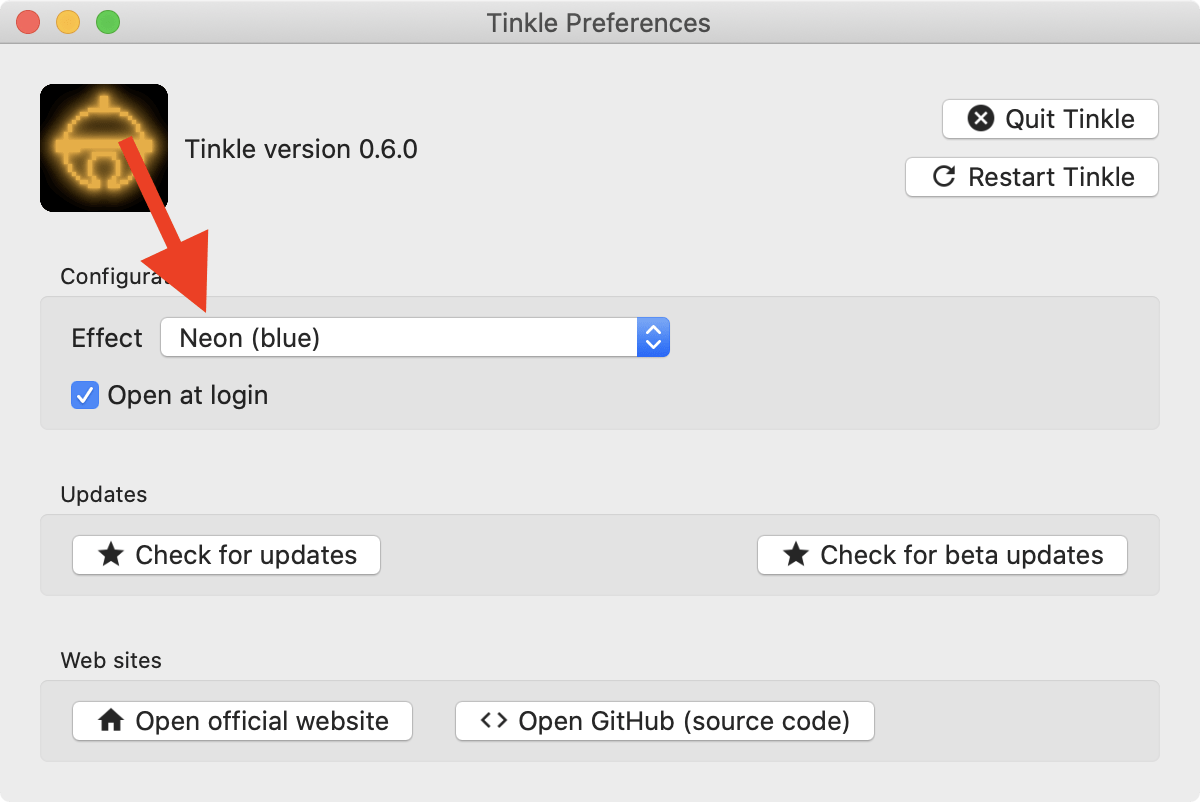
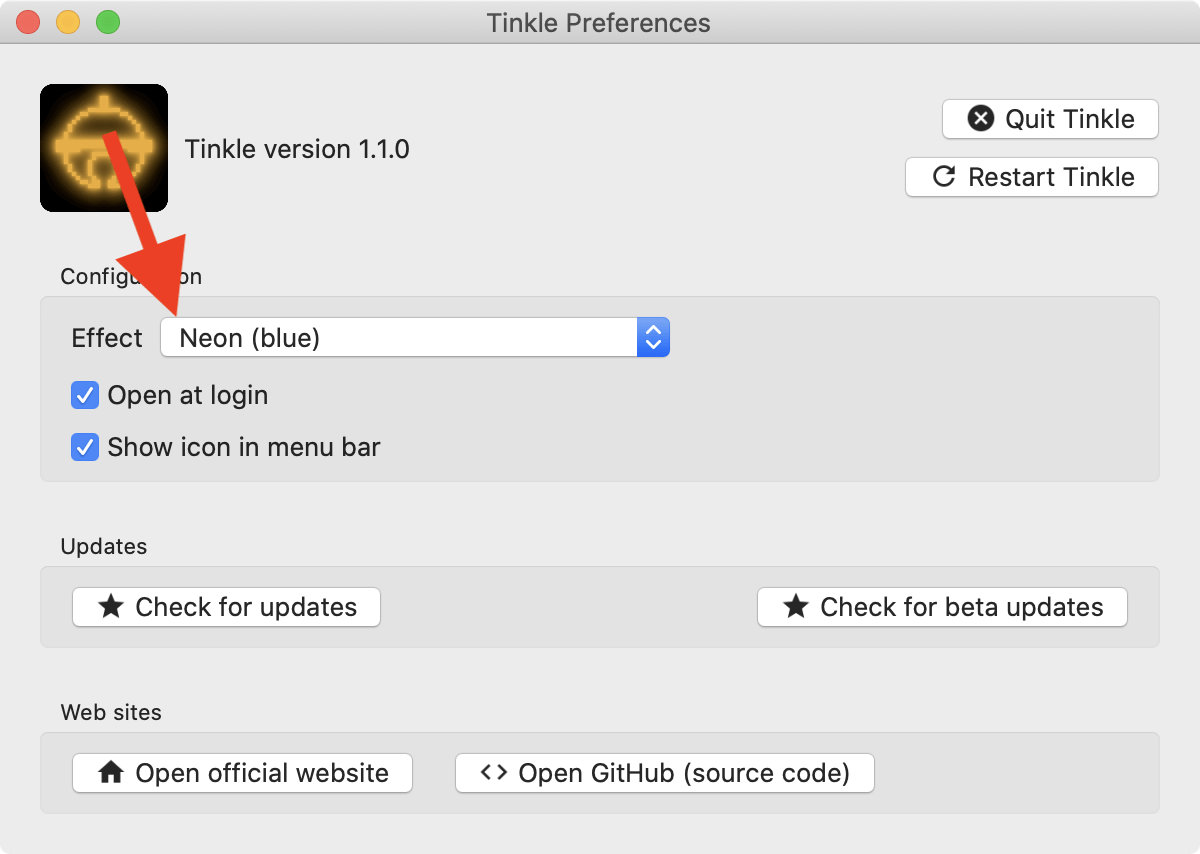
update tinkle docs

diff --git a/sites/tinkle/content/en/docs/configuration/open-preferences-window/index.md b/sites/tinkle/content/en/docs/configuration/open-preferences-window/index.md
@@ -1,10 +1,14 @@
 ---
-title: "Open preferences window"
+title: 'Open preferences window'
 weight: 100
 ---
 
-1.  Open Tinkle again from Launchpad while Tinkle is already running.
-    {{< local-image src="images/launchpad@2x.png" >}}
+1.  Open Preferences from menu bar.
+    {{< local-image src="images/menu-icon@2x.png" >}}
 
-    The preferences window will be shown.
-    {{< local-image src="images/preferences@2x.png" >}}
+{{% alert title="Note" color="primary" %}}
+
+If you've hidden the menu bar icon, open Tinkle again from Launchpad while Tinkle is already running to open preferences window.
+{{< local-image src="images/launchpad@2x.png" >}}
+
+{{% /alert %}}

diff --git a/sites/tinkle/content/en/docs/configuration/hide-menu-bar-icon/index.md b/sites/tinkle/content/en/docs/configuration/hide-menu-bar-icon/index.md
@@ -1,0 +1,10 @@
+---
+title: "Hide the icon in menu bar"
+weight: 400
+---
+
+You can hide the icon in menu bar from preferences.
+
+1.  [Open preferences window](../open-preferences-window/).
+2.  Turn off `Show icon in menu bar`.
+    {{< local-image src="images/hide-menu-bar-icon@2x.png" >}}
